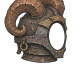
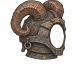
feat(crew): helmet skins fitted: lamp and scanner mounts, cards, whole crests

diff --git a/tools/anime-art/subjects/scanner.js b/tools/anime-art/subjects/scanner.js
@@ -20,6 +20,12 @@ const HELMETS = {
   quiltedHelmet: { name: 'hero_quiltedHelmet_scanner', top: (x) => QuiltedKit.top(x), on: [6.2, -3] },
 };
 
+// The helmet skins (hero-skins) wear the basic helmet's crest, raised onto each painted dome; no picture of their own.
+const SKINS = {
+  brassHelmet: -2.4, beakHelmet: -2.8, roninHelmet: -2.2, knightHelmet: -2.2, reliquaryHelmet: -2.4,
+  skullHelmet: -2.6, ramHelmet: -2.4, bathysphereHelmet: -2.9, paradeHelmet: -2.4,
+};
+
 const n2 = (v) => +v.toFixed(2);
 /** The crest on helmet h: the dome under it, its top edge, the glass's top and height. */
 function geom(h) {
@@ -78,7 +84,8 @@ Subjects.scanner = function () {
     draw: (a) => { crest(a, 'helmet'); a.glow(ell(top[0], top[1], top[2], top[3]), '#7cf096'); } }));
 
   const pt = (v) => v.toFixed(2).replace(/\.?0+$/, '') || '0';
-  const rows = Object.entries(HELMETS).map(([id, h]) => `        ["${id}"] = ("${h.name}", ${pt(h.on[0])}, ${pt(h.on[1])}),`).join('\n');
+  const rows = Object.entries(HELMETS).map(([id, h]) => `        ["${id}"] = ("${h.name}", ${pt(h.on[0])}, ${pt(h.on[1])}),`)
+    .concat(Object.entries(SKINS).map(([id, y]) => `        ["${id}"] = ("${HELMETS.helmet.name}", ${pt(HELMETS.helmet.on[0])}, ${pt(y)}),`)).join('\n');
   writeText('../../shared/logic/ScannerInk.cs', `// Generated by tools/anime-art/subjects/scanner.js: export again, never edit.
 using System.Collections.Generic;
 

diff --git a/game/shared/logic/ScannerInk.cs b/game/shared/logic/ScannerInk.cs
@@ -18,6 +18,15 @@ public static class ScannerInk
         ["helmet"] = ("hero_scanner", 6.2, -1.9),
         ["heavyHelmet"] = ("hero_heavyHelmet_scanner", 6.2, -4.1),
         ["quiltedHelmet"] = ("hero_quiltedHelmet_scanner", 6.2, -3),
+        ["brassHelmet"] = ("hero_scanner", 6.2, -2.4),
+        ["beakHelmet"] = ("hero_scanner", 6.2, -2.8),
+        ["roninHelmet"] = ("hero_scanner", 6.2, -2.2),
+        ["knightHelmet"] = ("hero_scanner", 6.2, -2.2),
+        ["reliquaryHelmet"] = ("hero_scanner", 6.2, -2.4),
+        ["skullHelmet"] = ("hero_scanner", 6.2, -2.6),
+        ["ramHelmet"] = ("hero_scanner", 6.2, -2.4),
+        ["bathysphereHelmet"] = ("hero_scanner", 6.2, -2.9),
+        ["paradeHelmet"] = ("hero_scanner", 6.2, -2.4),
     };
 
     /// <summary>The scanner on <paramref name="helmet"/>'s picture; the basic helmet's for one without a row.</summary>

diff --git a/game/shared/logic/LampMounts.cs b/game/shared/logic/LampMounts.cs
@@ -13,6 +13,16 @@ public static class LampMounts
         [Stillwake.Content.Helmet.Basic] = (8, -2),
         [Stillwake.Content.Helmet.Heavy] = (6, -4.8),
         [Stillwake.Content.Helmet.Quilted] = (7.2, -3.4),
+        // The helmet skins: on the brow of each painted dome, over its face opening as on the basic one.
+        ["brassHelmet"] = (8, -2.4),
+        ["beakHelmet"] = (8, -2.8),
+        ["roninHelmet"] = (8, -2),
+        ["knightHelmet"] = (8, -2.2),
+        ["reliquaryHelmet"] = (8, -2.4),
+        ["skullHelmet"] = (8, -2.4),
+        ["ramHelmet"] = (8, -2.2),
+        ["bathysphereHelmet"] = (8, -2.9),
+        ["paradeHelmet"] = (8, -2.2),
     };
 
     /// <summary>Where it sits on <paramref name="helmet"/>'s picture; the basic helmet's for none or one without a row.</summary>
